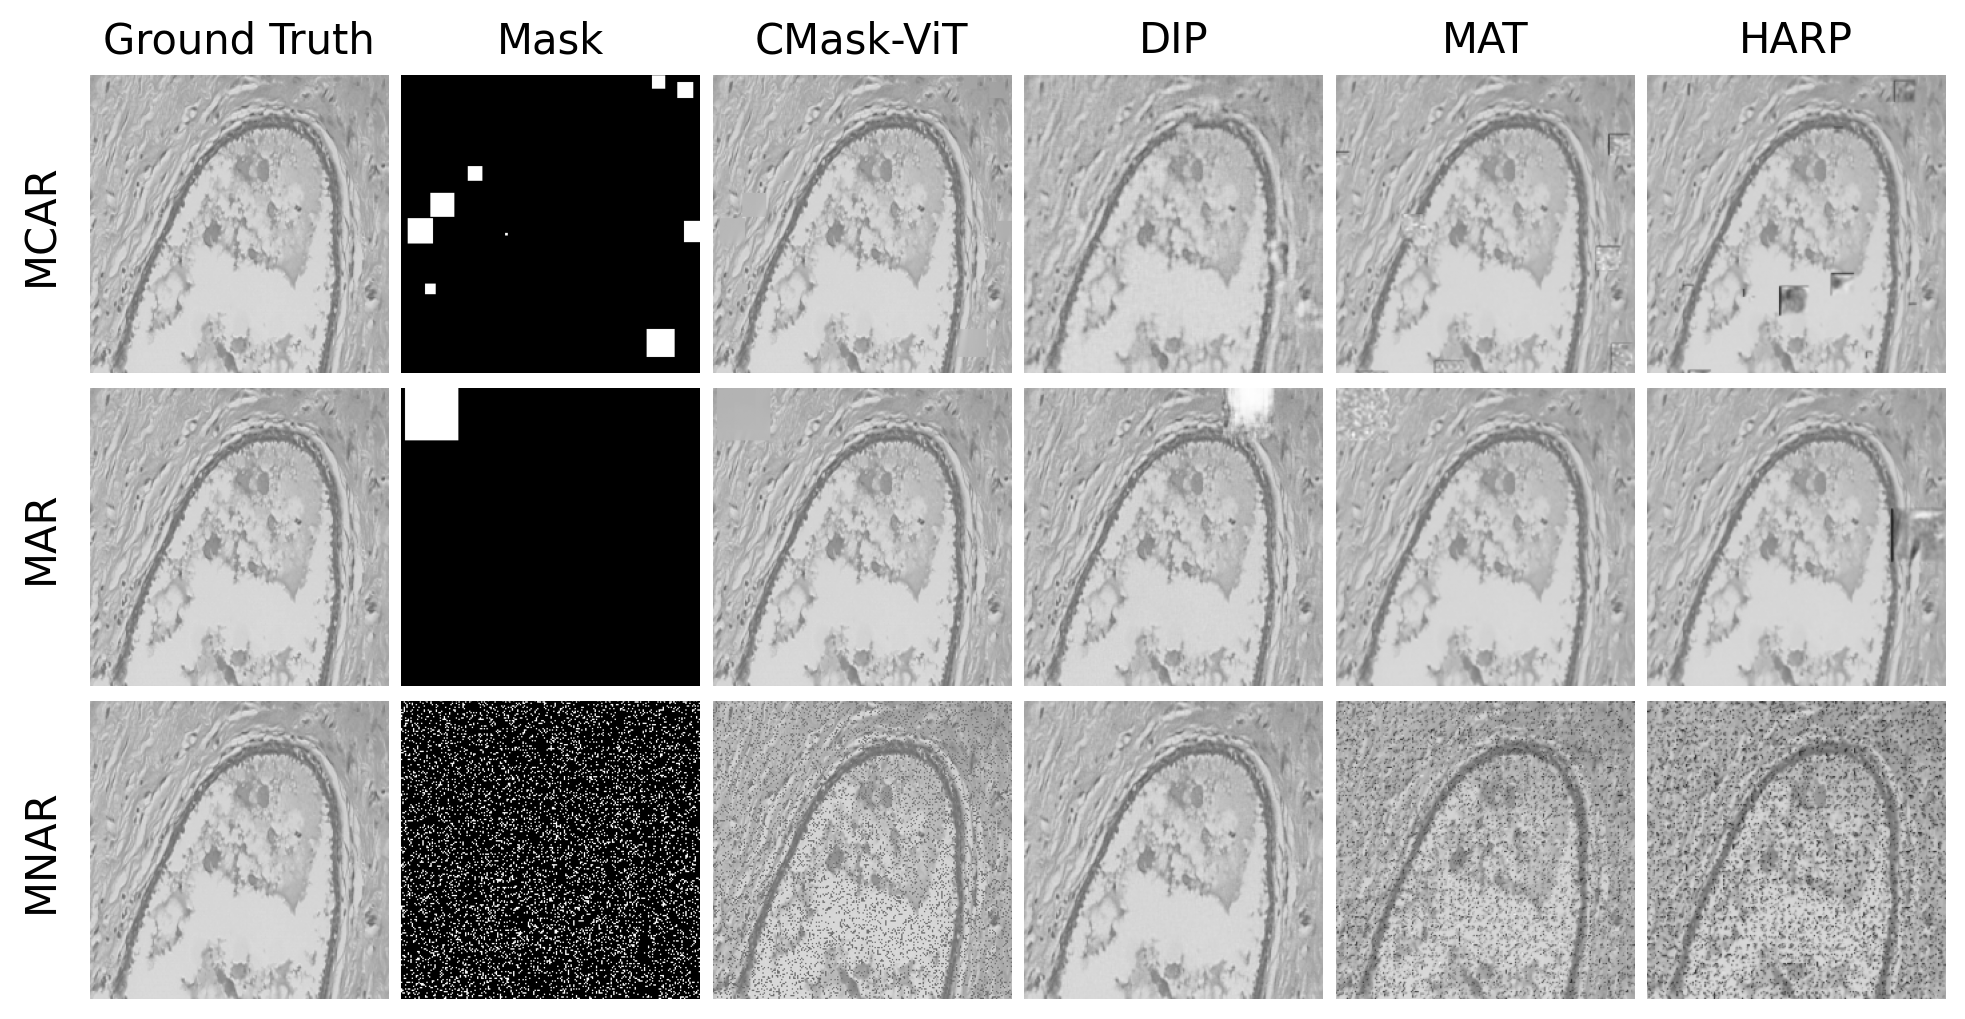
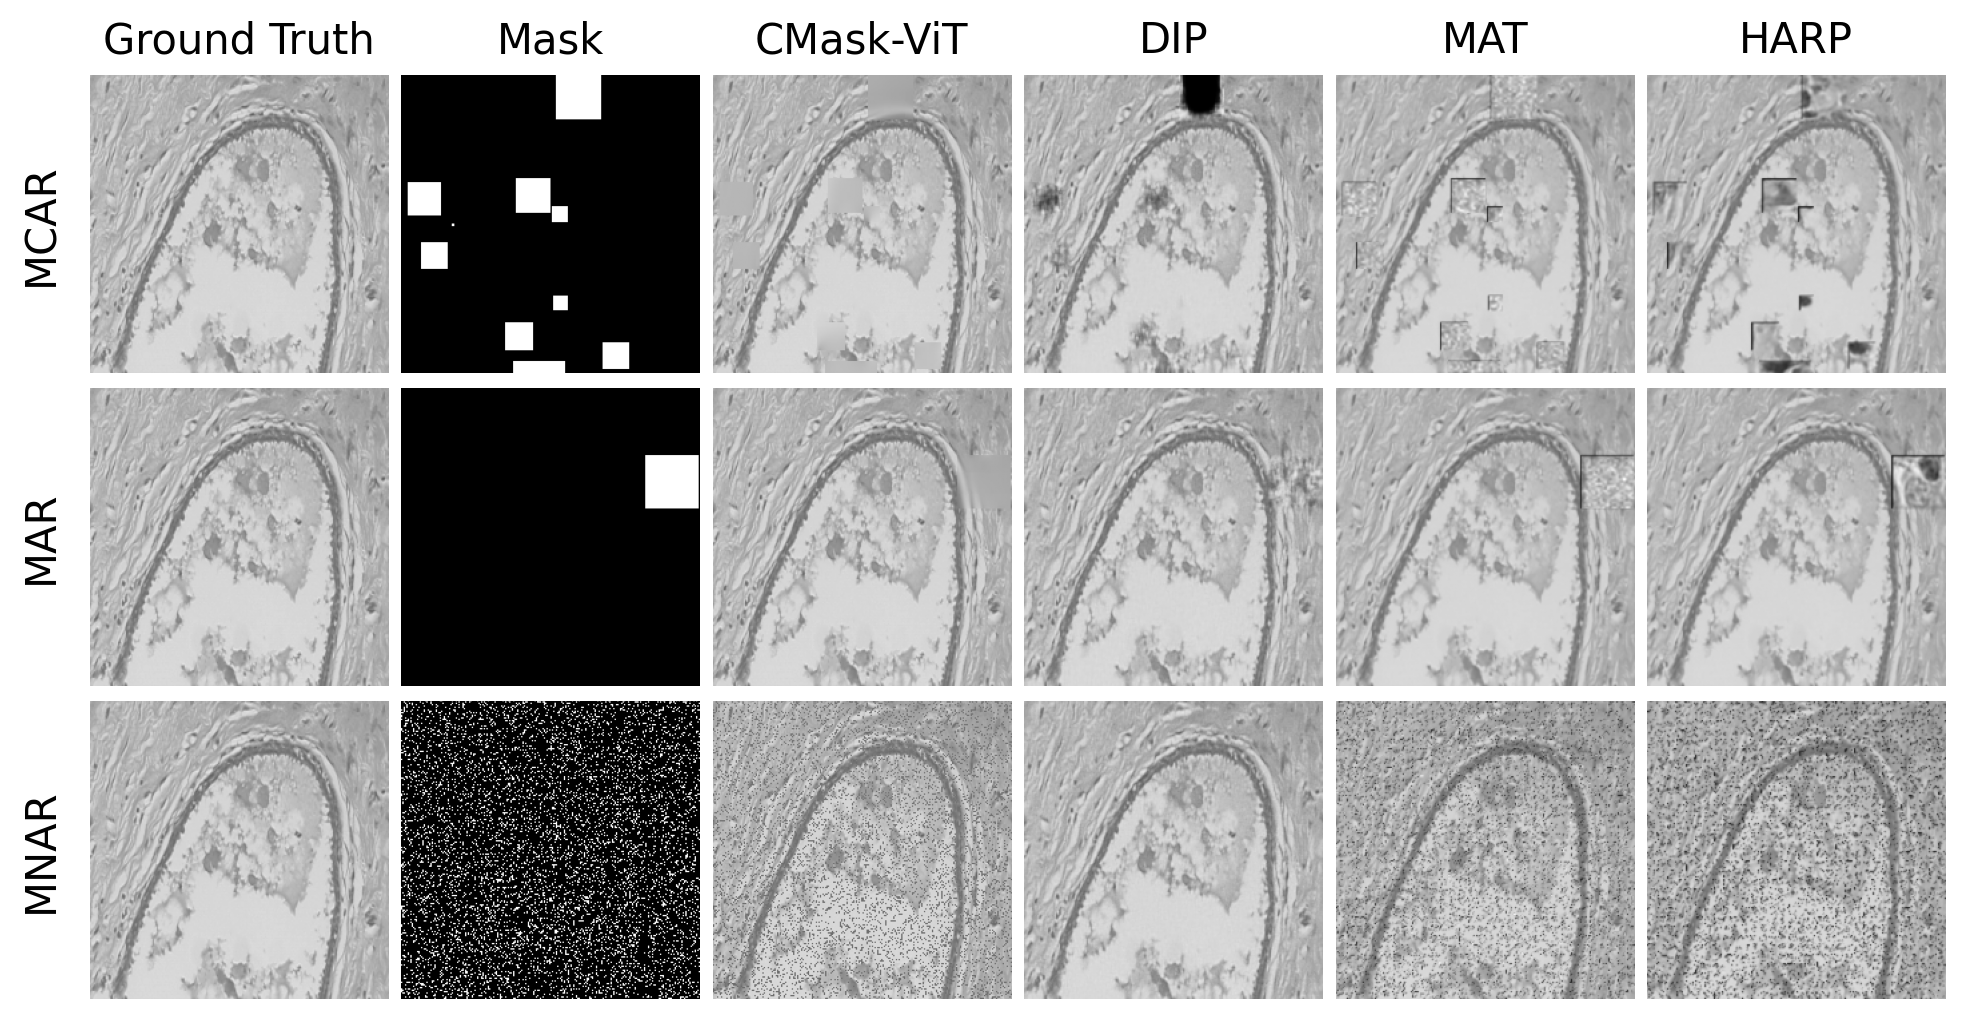
features: results

diff --git a/codes/plot_classification_results.py b/codes/plot_classification_results.py
@@ -73,6 +73,16 @@ METRIC_LABELS = {
     "AUC": "AUC",
 }
 
+# Mechanism order/colors for the data-centric alignment plot (mechanism is the
+# grouped-bar dimension there, method is the x-axis -- independent from
+# METHOD_COLORS above, which colors methods in the other charts).
+MECHANISM_ORDER = ["MCAR", "MAR", "MNAR"]
+MECHANISM_COLORS = {
+    "MCAR": "#2a78d6",
+    "MAR": "#eb6834",
+    "MNAR": "#4a3aa7",
+}
+
 INK_PRIMARY = "#0b0b0b"
 INK_SECONDARY = "#52514e"
 INK_MUTED = "#898781"
@@ -214,6 +224,119 @@ def plot_dataset_mechanism(
         print(f"Skipping {dataset}/{mechanism}: no imputer results found yet (baseline only).")
 
 
+def plot_data_centric_alignment(df_long: pd.DataFrame, dataset: str, output_dir: str):
+    """
+    Data-Centric AI alignment figure: one grouped-bar panel per metric, x =
+    imputation method, bars = one per mechanism (MCAR/MAR/MNAR). The clean
+    baseline isn't drawn as another bar (it doesn't depend on mechanism, so it
+    would just repeat) -- instead it's a horizontal dashed reference line with
+    a shaded +-std band. Bars sitting close to that line are the visual
+    argument: imputed images preserve almost the same downstream
+    classification performance as the untouched ground truth, across every
+    missingness mechanism.
+    """
+    subset = df_long[df_long["DATASET"] == dataset]
+    if subset.empty:
+        return
+
+    baseline = subset[subset["METHOD"] == "baseline"]
+    imputed = subset[subset["METHOD"] != "baseline"]
+    if imputed.empty:
+        return
+
+    mechanisms = [m for m in MECHANISM_ORDER if m in imputed["MECHANISM"].unique()]
+    methods = [m for m in IMPUTERS if m in imputed["METHOD"].unique()]
+    if not mechanisms or not methods:
+        return
+    n_mechanisms = len(mechanisms)
+
+    fig, axes = plt.subplots(
+        1, len(METRICS), figsize=(6 * len(METRICS), 5.5), facecolor=SURFACE
+    )
+    axes = np.atleast_1d(axes)
+
+    x = np.arange(len(methods))
+    bar_width = 0.8 / n_mechanisms
+
+    for ax, metric in zip(axes, METRICS):
+        ax.set_facecolor(SURFACE)
+
+        baseline_vals = baseline[baseline["METRIC"] == metric]["VALUE"]
+        baseline_mean = baseline_vals.mean()
+        baseline_std = baseline_vals.std()
+
+        for i, mechanism in enumerate(mechanisms):
+            means, stds = [], []
+            for method in methods:
+                vals = imputed[
+                    (imputed["METHOD"] == method)
+                    & (imputed["MECHANISM"] == mechanism)
+                    & (imputed["METRIC"] == metric)
+                ]["VALUE"]
+                means.append(vals.mean() if len(vals) else np.nan)
+                stds.append(vals.std() if len(vals) else 0.0)
+
+            offset = (i - (n_mechanisms - 1) / 2) * bar_width
+            ax.bar(
+                x + offset,
+                means,
+                width=bar_width * 0.9,
+                yerr=stds,
+                capsize=2,
+                color=MECHANISM_COLORS[mechanism],
+                label=mechanism,
+                zorder=3,
+            )
+
+        if pd.notna(baseline_mean):
+            ax.axhspan(
+                baseline_mean - baseline_std,
+                baseline_mean + baseline_std,
+                color=INK_MUTED,
+                alpha=0.15,
+                zorder=1,
+            )
+            ax.axhline(
+                baseline_mean,
+                color=INK_PRIMARY,
+                linestyle="--",
+                linewidth=1.5,
+                zorder=2,
+                label="Baseline (clean)",
+            )
+
+        ax.set_ylim(0, 1.05)
+        ax.set_xticks(x)
+        ax.set_xticklabels(
+            [METHOD_LABELS[m] for m in methods], color=INK_SECONDARY, rotation=15, ha="right"
+        )
+        ax.tick_params(axis="y", colors=INK_SECONDARY)
+        ax.set_ylabel(METRIC_LABELS[metric], color=INK_SECONDARY)
+
+        ax.yaxis.grid(True, color=GRIDLINE, linewidth=1, zorder=0)
+        ax.set_axisbelow(True)
+        for spine_name in ["top", "right", "left"]:
+            ax.spines[spine_name].set_visible(False)
+        ax.spines["bottom"].set_color(BASELINE_AXIS)
+
+    handles, labels = axes[0].get_legend_handles_labels()
+    fig.legend(
+        handles,
+        labels,
+        loc="upper center",
+        bbox_to_anchor=(0.5, 0.02),
+        ncol=n_mechanisms + 1,
+        frameon=False,
+        labelcolor=INK_SECONDARY,
+    )
+
+    os.makedirs(output_dir, exist_ok=True)
+    out_path = os.path.join(output_dir, f"{dataset}_data_centric_alignment.png")
+    fig.savefig(out_path, dpi=300, bbox_inches="tight", facecolor=SURFACE)
+    plt.close(fig)
+    print(f"Saved {out_path}")
+
+
 def plot_overall(df_long: pd.DataFrame, output_dir: str):
     """Single grouped bar chart pooled across every available dataset and mechanism."""
     if df_long.empty:
@@ -251,6 +374,8 @@ def main(
     for dataset, mechanisms in DATASET_MECHANISMS.items():
         for mechanism in mechanisms:
             plot_dataset_mechanism(df_long, dataset, mechanism, output_dir)
+        if len(mechanisms) > 1:
+            plot_data_centric_alignment(df_long, dataset, output_dir)
 
     plot_overall(df_long, output_dir)
 

diff --git a/codes/build_breakhist_figure.py b/codes/build_breakhist_figure.py
@@ -1,0 +1,56 @@
+import sys
+sys.path.append("/home/gpu-10-2025/Área de trabalho/MissingMedicalData")
+
+import numpy as np
+import matplotlib.pyplot as plt
+from PIL import Image
+
+BASE = "/home/gpu-10-2025/Área de trabalho/MissingMedicalData/new_results/breakhist"
+OUT = "/home/gpu-10-2025/Área de trabalho/MissingMedicalData/paper/breakhist_inpainting_results_no_knn.png"
+SCRATCH = "/tmp/claude-1000/-home-gpu-10-2025--rea-de-trabalho-MissingMedicalData/b5f05034-22c2-4756-9ce9-2d16b3e12e77/scratchpad"
+
+MECHANISMS = ["MCAR", "MAR", "MNAR"]
+METHODS = [
+    ("mae-vit", "CMask-ViT"),
+    ("dip", "DIP"),
+    ("mat", "MAT"),
+    ("harp", "HARP"),
+]
+MASK_SOURCE = "mae-vit"  # cada imputador roda com sua propria mascara aleatoria
+                     # (sem seed fixa); usamos a do mae-vit so como exemplo visual
+                     # representativo do mecanismo/fold.
+
+gt_image = np.load(f"{SCRATCH}/gt_image.npy")
+
+n_rows = len(MECHANISMS)
+n_cols = 2 + len(METHODS)  # Ground Truth, Mask, + metodos
+col_titles = ["Ground Truth", "Mask"] + [label for _, label in METHODS]
+
+fig, axes = plt.subplots(n_rows, n_cols, figsize=(2.0 * n_cols, 2.0 * n_rows))
+
+for row, mechanism in enumerate(MECHANISMS):
+    mask_path = f"{BASE}/{MASK_SOURCE}/imputed_images/fold0_{mechanism}/MASK_0000.png"
+    mask_img = np.array(Image.open(mask_path))
+
+    row_images = [gt_image, mask_img]
+    for model_impt, _ in METHODS:
+        img_path = f"{BASE}/{model_impt}/imputed_images/fold0_{mechanism}/IMG_0000.png"
+        row_images.append(np.array(Image.open(img_path)))
+
+    for col, img in enumerate(row_images):
+        ax = axes[row, col]
+        ax.imshow(img, cmap="gray", vmin=0, vmax=255)
+        ax.set_xticks([])
+        ax.set_yticks([])
+        for spine in ax.spines.values():
+            spine.set_visible(False)
+
+        if row == 0:
+            ax.set_title(col_titles[col], fontsize=15, pad=8)
+
+    axes[row, 0].set_ylabel(mechanism, fontsize=15, rotation=90, labelpad=10)
+
+fig.patch.set_facecolor("white")
+plt.subplots_adjust(wspace=0.03, hspace=0.05)
+fig.savefig(OUT, dpi=200, bbox_inches="tight", facecolor="white")
+print("salvo em", OUT)
